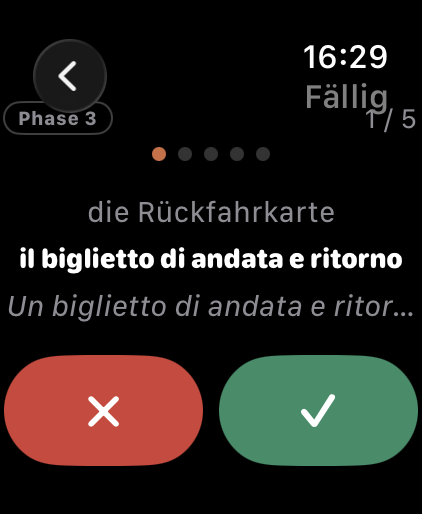
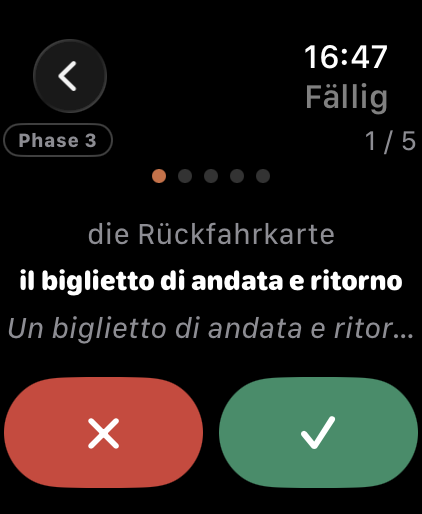
Keep the card and blitz headers clear of the navigation bar
Both views drew from y=0, so the phase badge sat under the back button
and the counter under the title; the blitz view's third answer also ran
off the bottom edge.

Blitz now uses a ScrollView, the same idiom as the home and result
views, which both insets the content and makes the third answer
reachable. The card view cannot scroll, because a ScrollView takes the
digital crown that reveals the card, so it gets an explicit top inset
instead.

The UI test now reveals the first card with the crown, so a future
change that swallows it fails the test.

diff --git a/watch/ImparaWatch/Views/BlitzView.swift b/watch/ImparaWatch/Views/BlitzView.swift
@@ -41,35 +41,37 @@ struct BlitzView: View {
     private var round: Round { rounds[index] }
 
     private var roundView: some View {
-        VStack(spacing: 6) {
-            HStack {
-                Text("\(index + 1) / \(rounds.count)")
-                    .font(.footnote)
-                    .foregroundStyle(.secondary)
-                Spacer()
-                Text("\(secondsLeft)")
-                    .font(.system(size: 11, weight: .bold, design: .rounded))
-                    .frame(width: 24, height: 24)
-                    .overlay(Circle().stroke(secondsLeft <= 3 ? Color.brick : Color.gold, lineWidth: 2))
-            }
-            Text(round.word.de)
-                .font(.system(.title3, design: .rounded, weight: .heavy))
-                .multilineTextAlignment(.center)
-                .minimumScaleFactor(0.6)
-                .lineLimit(2)
-                .padding(.vertical, 2)
-
-            ForEach(round.options, id: \.self) { option in
-                Button { answer(option) } label: {
-                    Text(option)
-                        .font(.footnote.weight(.semibold))
-                        .lineLimit(1)
-                        .minimumScaleFactor(0.7)
-                        .frame(maxWidth: .infinity, alignment: .leading)
+        ScrollView {
+            VStack(spacing: 6) {
+                HStack {
+                    Text("\(index + 1) / \(rounds.count)")
+                        .font(.footnote)
+                        .foregroundStyle(.secondary)
+                    Spacer()
+                    Text("\(secondsLeft)")
+                        .font(.system(size: 11, weight: .bold, design: .rounded))
+                        .frame(width: 24, height: 24)
+                        .overlay(Circle().stroke(secondsLeft <= 3 ? Color.brick : Color.gold, lineWidth: 2))
                 }
-                .buttonStyle(.bordered)
-                .tint(tint(for: option))
-                .disabled(chosen != nil)
+                Text(round.word.de)
+                    .font(.system(.title3, design: .rounded, weight: .heavy))
+                    .multilineTextAlignment(.center)
+                    .minimumScaleFactor(0.6)
+                    .lineLimit(2)
+                    .padding(.vertical, 2)
+
+                ForEach(round.options, id: \.self) { option in
+                    Button { answer(option) } label: {
+                        Text(option)
+                            .font(.footnote.weight(.semibold))
+                            .lineLimit(1)
+                            .minimumScaleFactor(0.7)
+                            .frame(maxWidth: .infinity, alignment: .leading)
+                    }
+                    .buttonStyle(.bordered)
+                    .tint(tint(for: option))
+                    .disabled(chosen != nil)
+                }
             }
         }
     }

diff --git a/watch/ImparaWatchUITests/FlowUITests.swift b/watch/ImparaWatchUITests/FlowUITests.swift
@@ -22,15 +22,19 @@ final class FlowUITests: XCTestCase {
         sleep(2)
         step("02-card-front")
 
+        let grade = app.buttons["checkmark"]
+        XCTAssertFalse(grade.exists, "Bewertungstasten dürfen vor dem Aufdecken nicht da sein")
+
         for round in 1...5 {
-            center().tap()                      // aufdecken
-            sleep(1)
-            if round == 1 { step("03-card-back") }
-            let buttons = app.buttons.allElementsBoundByIndex
-            log("Runde \(round) Tasten: " + buttons.map { "'\($0.label)'" }.joined(separator: ", "))
-            guard let grade = buttons.last, buttons.count >= 2 else {
-                XCTFail("Bewertungstasten fehlen in Runde \(round)"); return
+            if round == 1 {
+                // Erste Karte über die Krone aufdecken, der Rest per Tippen.
+                XCUIDevice.shared.rotateDigitalCrown(delta: 1.0)
+                XCTAssertTrue(grade.waitForExistence(timeout: 5), "Krone deckt die Karte nicht auf")
+            } else {
+                center().tap()
+                XCTAssertTrue(grade.waitForExistence(timeout: 5), "Tippen deckt Karte \(round) nicht auf")
             }
+            if round == 1 { step("03-card-back") }
             grade.tap()
             sleep(1)
         }
@@ -48,10 +52,10 @@ final class FlowUITests: XCTestCase {
         sleep(2)
         step("05-blitz")
         for round in 1...5 {
-            let options = app.buttons.allElementsBoundByIndex
-            log("Blitz \(round) Tasten: " + options.map { "'\($0.label)'" }.joined(separator: ", "))
-            guard let answer = options.last else { XCTFail("Keine Antworten in Blitz \(round)"); return }
-            answer.tap()
+            let options = app.buttons.allElementsBoundByIndex.filter { $0.identifier != "BackButton" }
+            XCTAssertEqual(options.count, 3, "Blitz \(round) zeigt nicht drei Antworten")
+            log("Blitz \(round): " + options.map { "'\($0.label)'" }.joined(separator: ", "))
+            options[2].tap()
             sleep(2)
         }
         sleep(1)

diff --git a/watch/ImparaWatch/Views/SessionView.swift b/watch/ImparaWatch/Views/SessionView.swift
@@ -90,6 +90,9 @@ struct SessionView: View {
                     .foregroundStyle(.tertiary)
             }
         }
+        // Die Ansicht rollt nicht, damit die Krone zum Aufdecken frei bleibt;
+        // deshalb muss sie sich selbst unter der Navigationsleiste halten.
+        .padding(.top, 22)
         .contentShape(Rectangle())
         .onTapGesture { if !revealed { reveal() } }
         .focusable()

diff --git a/watch/README.md b/watch/README.md
@@ -75,4 +75,4 @@ Beim ersten Start lädt die App Beispieldaten (20 Karten, davon 12 fällig). Fü
 
 ## Was fehlt
 
-Sync mit dem Firebase-Raum der Web-App, die iOS-Hülle für den App Store, Start der Runde direkt aus der Mitteilung, Belegung der Aktionstaste (das geht über die Einstellungen der Uhr, sobald die App installiert ist), die App Group für das Widget und ein App-Icon. Kleinigkeit fürs Auge: in der Kartenrunde und in der Blitzrunde überlagern sich die Kopfzeile der Ansicht und der Navigationstitel.
+Sync mit dem Firebase-Raum der Web-App, die iOS-Hülle für den App Store, Start der Runde direkt aus der Mitteilung, Belegung der Aktionstaste (das geht über die Einstellungen der Uhr, sobald die App installiert ist), die App Group für das Widget und ein App-Icon.
